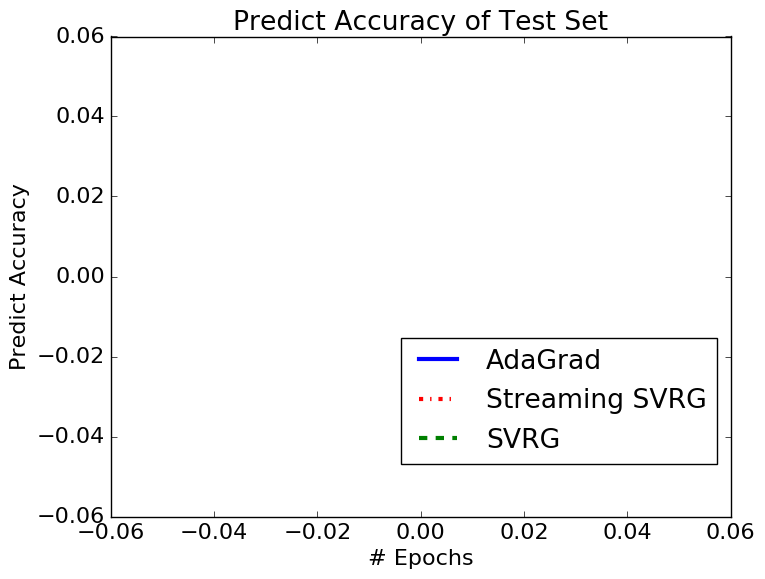
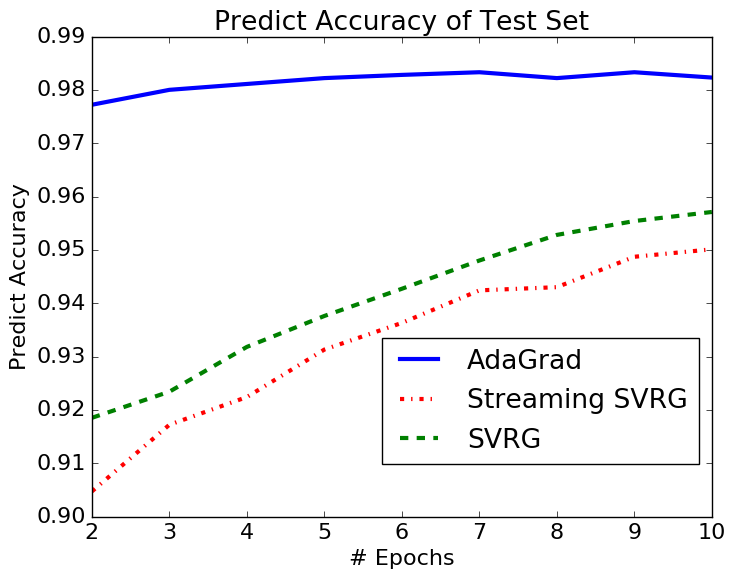
run 200, lambda 0.1 lr 0.01

diff --git a/svrg_bn/classifier_test.py b/svrg_bn/classifier_test.py
@@ -35,12 +35,12 @@ def main(model=MODEL,gradient = GRADIENT, n_epochs=NUM_EPOCHS, n_hidden = NUM_HI
     objective = lasagne.objectives.categorical_crossentropy
 
     models = {}
-    l_r = theano.shared(np.array(0.01, dtype="float32")) 
+    l_r = theano.shared(np.array(0.1, dtype="float32")) 
     ada_factor = theano.shared(np.array(0.8, dtype="float32")) 
     if gradient == "svrg" or gradient == "all":
-        models.update({ 'svrg': (custom_svrg1, {'learning_rate': 0.01, 'm': 50, 'adaptive': False, 'adaptive_half_life_period':20, 'ada_factor':ada_factor}) })
+        models.update({ 'svrg': (custom_svrg1, {'learning_rate': 0.1, 'm': 50, 'adaptive': False, 'adaptive_half_life_period':20, 'ada_factor':ada_factor}) })
     if gradient == "stream" or gradient == "all": # It is StreamingSVRG
-        models.update({ 'streaming': (custom_streaming_svrg1, {'learning_rate': 0.01, 'm': 50, 'k_s_0': 1.0, 'k_s_ratio':1.03, 'adaptive': False, 'adaptive_half_life_period':20, 'ada_factor':ada_factor}) })
+        models.update({ 'streaming': (custom_streaming_svrg1, {'learning_rate': 0.1, 'm': 50, 'k_s_0': 1.0, 'k_s_ratio':1.03, 'adaptive': False, 'adaptive_half_life_period':20, 'ada_factor':ada_factor}) })
         #k_s is the ratio of how many batches are used in this iteration of StreamingSVRG
     if gradient == "adagrad" or gradient == "all":        
         models.update( { 'adagrad': (custom_adagrad, {'learning_rate': l_r, 'eps': 1.0e-8, 'adaptive': True, 'adaptive_half_life_period':20, 'ada_factor':ada_factor}) })

diff --git a/svrg_bn/draw_3_BN.py b/svrg_bn/draw_3_BN.py
@@ -19,8 +19,8 @@ PATH_DATA   = "data/"
 
 PATH_FIGURE = "figure_3/"
 
-MAXLENGTH = 1999
-STARTPOINT = 10
+MAXLENGTH = 199
+STARTPOINT = 9
 LINEWIDTH = 3
 
 LOAD_SGD = True
